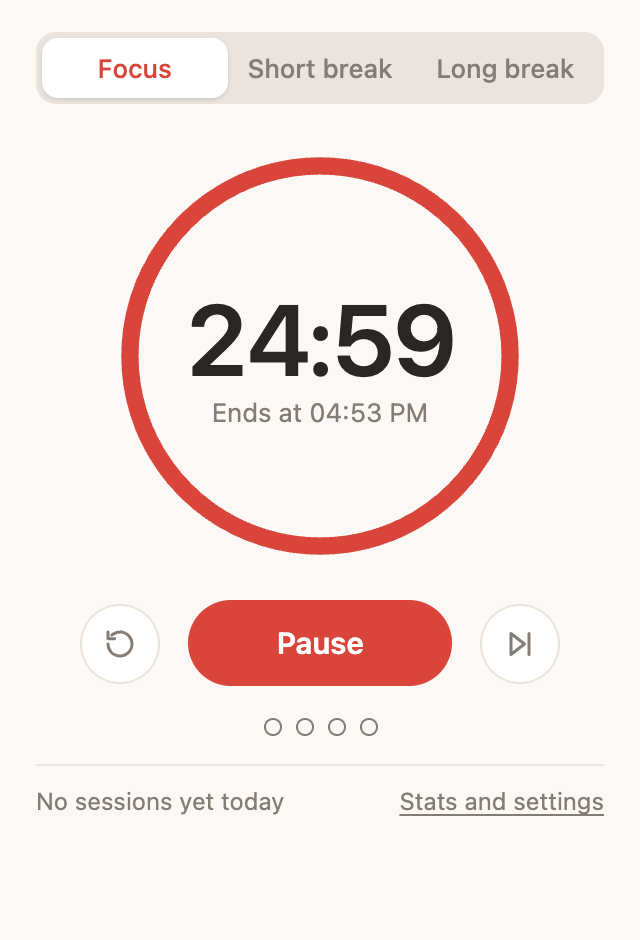
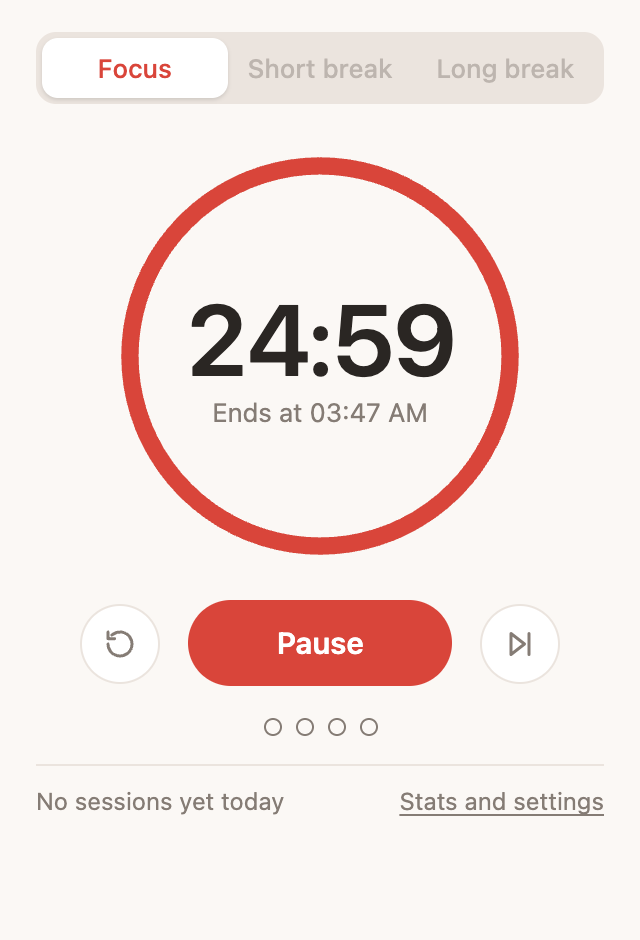
fix: keep running timer on tab click and show notice after a late break

diff --git a/background.js b/background.js
@@ -81,9 +81,17 @@ const LATE_MS = 2 * 60000;
 
 async function finish(state) {
   if (Date.now() - state.endTime <= LATE_MS) return advance(state, true);
-  // Nobody was at the keyboard: do not count the session, and wait at a fresh focus phase.
+  // Nobody was at the keyboard: wait at a fresh focus phase, whatever the settings say.
+  const settings = await getSettings();
   const done = state.phase === 'long' ? 0 : state.done;
-  await commit(fresh('focus', await getSettings(), done));
+  const next = fresh('focus', settings, done);
+  // A late focus session is not counted. A late break still ends with the usual notice.
+  if (state.phase !== 'focus') next.waiting = { finished: state.phase, late: true };
+  await commit(next);
+  if (next.waiting) {
+    if (settings.notify) notify(next, settings);
+    toast(next);
+  }
 }
 
 async function recordSession(ms) {
@@ -96,9 +104,11 @@ async function recordSession(ms) {
 
 // Wording for the notice shown when a phase ends and the next one waits.
 function noticeText(state) {
-  const { finished, minutes } = state.waiting;
+  const { finished, minutes, late } = state.waiting;
   const next = Math.round(state.total / 60000);
-  const passed = `${minutes} ${minutes === 1 ? 'minute has' : 'minutes have'} passed.`;
+  const passed = late
+    ? 'Your break ended a while ago.'
+    : `${minutes} ${minutes === 1 ? 'minute has' : 'minutes have'} passed.`;
   if (finished !== 'focus') {
     return { title: 'Break over', message: `${passed} Ready for another focus session?`, button: 'Start focus' };
   }
@@ -252,8 +262,9 @@ const actions = {
     await advance(await getState(), false);
   },
   async setPhase({ phase }) {
-    if (!PHASES[phase]) return;
     const state = await getState();
+    // Switching would throw away a running timer, so it needs a pause first.
+    if (!PHASES[phase] || phase === state.phase || state.status === 'running') return;
     await commit(fresh(phase, await getSettings(), state.done));
   },
   async dismiss() {
@@ -296,6 +307,9 @@ chrome.notifications.onButtonClicked.addListener(startFromNotification);
 chrome.tabs.onActivated.addListener(({ tabId }) => serial(async () => toast(await getState(), tabId)));
 chrome.tabs.onUpdated.addListener((tabId, info, tab) => {
   if (info.status === 'complete' && tab.active) serial(async () => toast(await getState(), tabId));
+});
+chrome.windows.onFocusChanged.addListener((windowId) => {
+  if (windowId !== chrome.windows.WINDOW_ID_NONE) serial(async () => toast(await getState()));
 });
 
 // New durations apply at once to a timer that has not started.

diff --git a/popup.js b/popup.js
@@ -32,6 +32,9 @@ function render() {
 
   for (const btn of document.querySelectorAll('.phases button')) {
     btn.setAttribute('aria-pressed', btn.dataset.phase === state.phase);
+    // Switching phase would discard a running timer, so pause first.
+    btn.disabled = state.status === 'running';
+    btn.title = btn.disabled ? 'Pause the timer to switch phase' : '';
   }
 
   const dots = $('dots');

diff --git a/popup.css b/popup.css
@@ -66,6 +66,10 @@ button:focus-visible {
   box-shadow: 0 1px 2px rgb(0 0 0 / 0.12);
 }
 
+.phases button:disabled { cursor: default; }
+
+.phases button:disabled:not([aria-pressed="true"]) { opacity: 0.45; }
+
 .dial {
   position: relative;
   width: 216px;

diff --git a/README.md b/README.md
@@ -62,7 +62,7 @@ Click the tomato icon to open the timer.
 - "Start" begins a focus session. The button then becomes "Pause"
 - The circular arrow resets the current phase
 - The arrow on the right skips to the next phase. Skipped sessions do not count in your stats
-- The tabs at the top switch between focus, short break and long break
+- The tabs at the top switch between focus, short break and long break. They are locked while the timer runs, so pause first
 - The dots show how many focus sessions you have done before the next long break
 
 Nothing starts without you. When a focus session ends, you hear a chime and a small notice appears in the top right corner of the page you are on. It tells you how many minutes have passed. Click "Start break" to begin the break, or "Not now" to hide the notice and start later from the popup. The same notice appears when a break ends, with a "Start focus" button.
@@ -71,7 +71,7 @@ While the timer waits for you, the toolbar icon shows "!". You also get a system
 
 If you prefer breaks or focus sessions to start by themselves, tick the two "automatically" boxes in the settings.
 
-If your computer sleeps or Chrome is closed past the end of a session, that session is not counted. The timer waits at a new focus session.
+If your computer sleeps or Chrome is closed past the end of a focus session, that session is not counted. The timer waits at a new focus session. A break that ends this way still shows the "Break over" notice when you come back.
 
 ### Settings and stats
 
